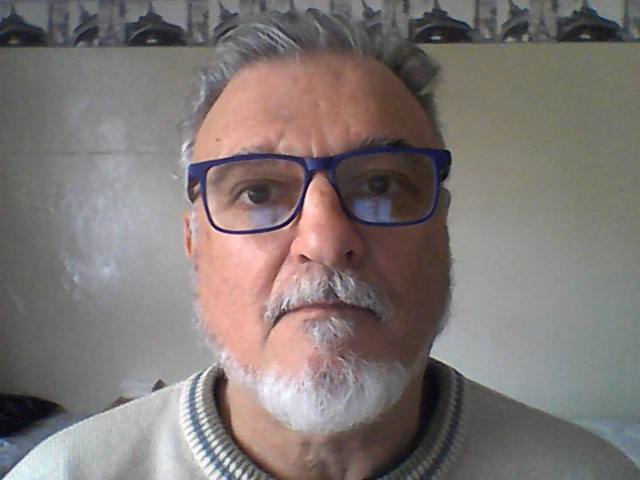
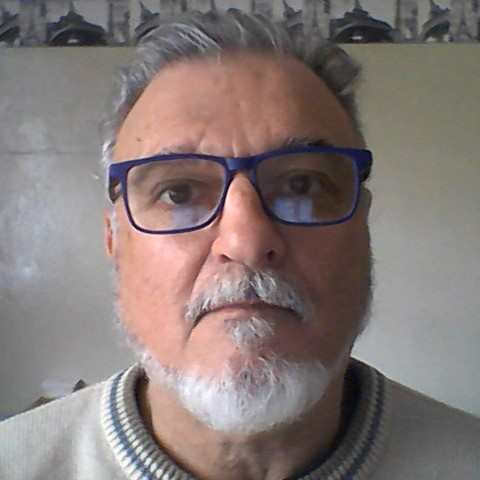
cambio dimensiones de foto, corrección logeo por reposicionado de block modal debajo de </nav>

diff --git a/index.html b/index.html
@@ -24,7 +24,7 @@
     ></script>
     <link rel="stylesheet" type="text/css" href="ASSETS/CSS/style.css" />
   </head>
-  <body>
+  <!-- body -->
     <nav class="navbar navbar-expand-lg css-selector fixed-top">
       <div class="container-fluid">
         <a class="navbar-brand" href="#">
@@ -52,7 +52,9 @@
           >
           </i>
         </ul>
-        <!-- Modal -->
+      </div>
+    </nav>
+    <!-- Modal -->
         <div
           class="modal fade"
           id="exampleModal"
@@ -106,8 +108,7 @@
             </div>
           </div>
         </div>
-      </div>
-    </nav>
+    <!-- /Sobre mi-->
     <section id="sobre-mi" class="about">
     <div class="container text-center">
       <div class="row">
@@ -121,7 +122,11 @@
           similique minima non quo saepe quaerat eius perferendis. Sint, et.
           </h5>
         </div>
-        <div class="col-3"></div>
+        <div class="col-3">
+          <h6>
+            Lorem ipsum dolor sit amet consectetur adipisicing elit. Nostrum asperiores excepturi est odit ipsa possimus, harum esse minus facere. Eligendi quidem, ab optio assumenda nesciunt tempore animi. Reprehenderit, praesentium unde.
+          </h6>
+        </div>
       </div>
     </div>
   </body>
